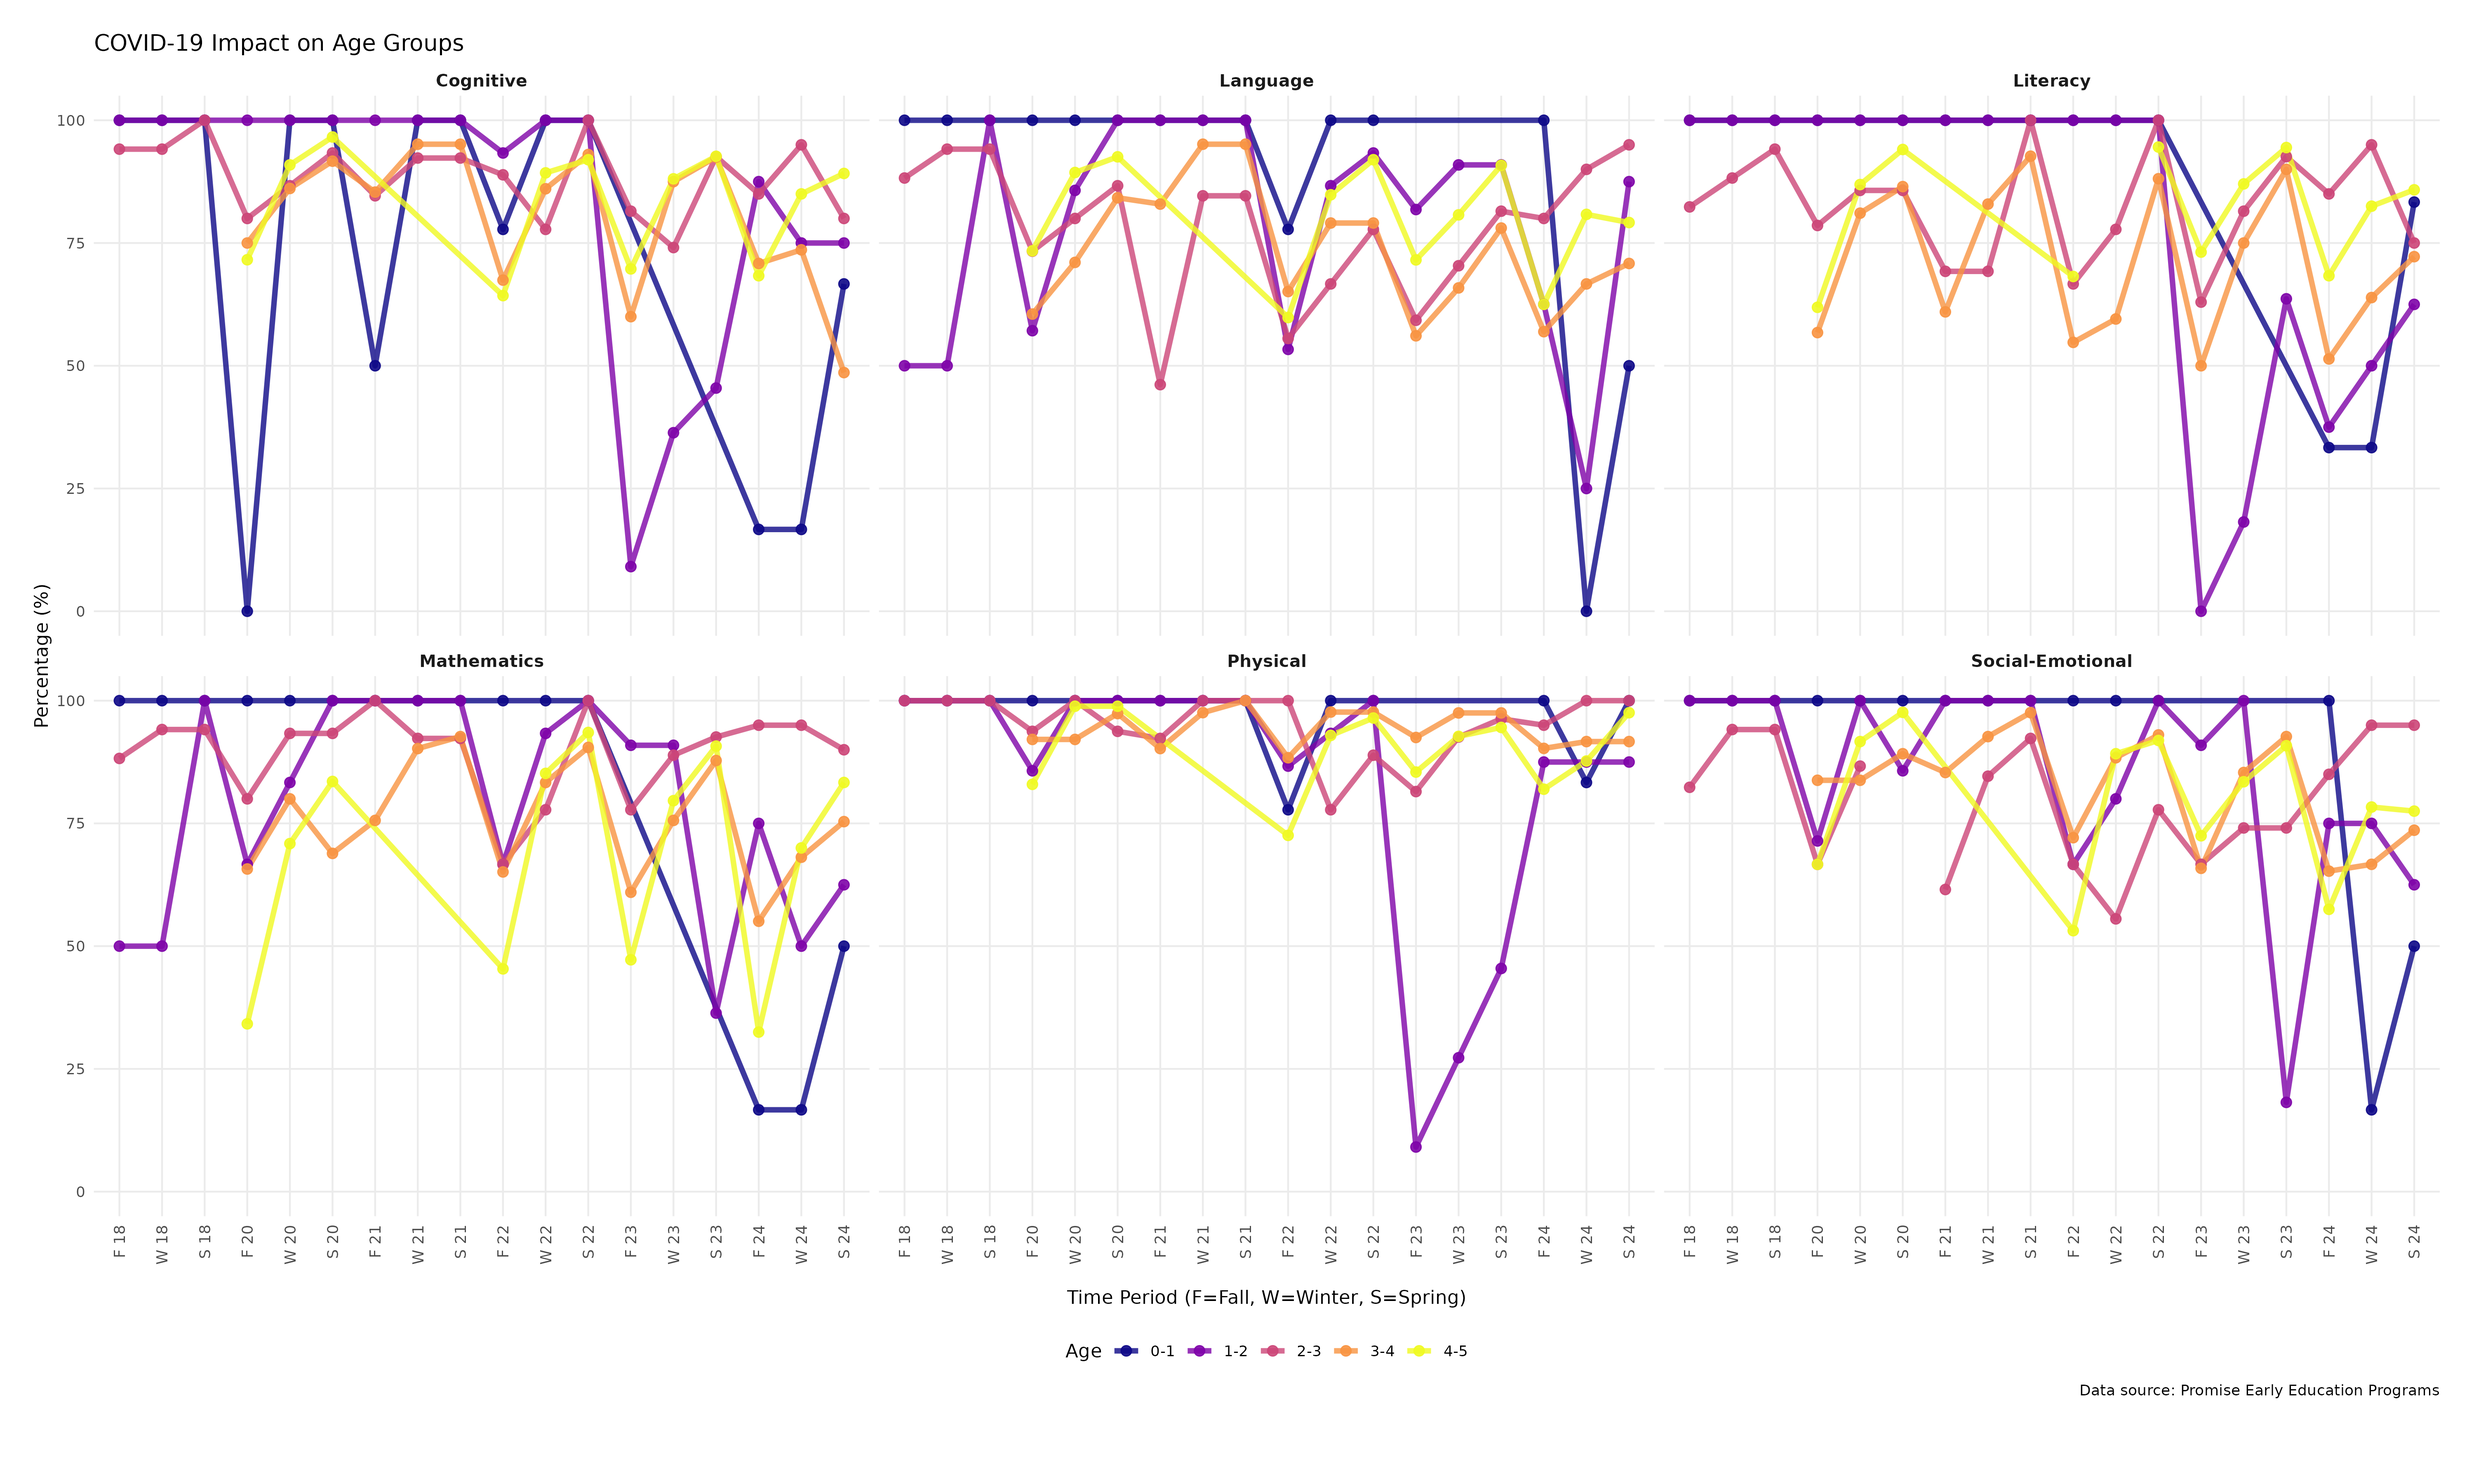
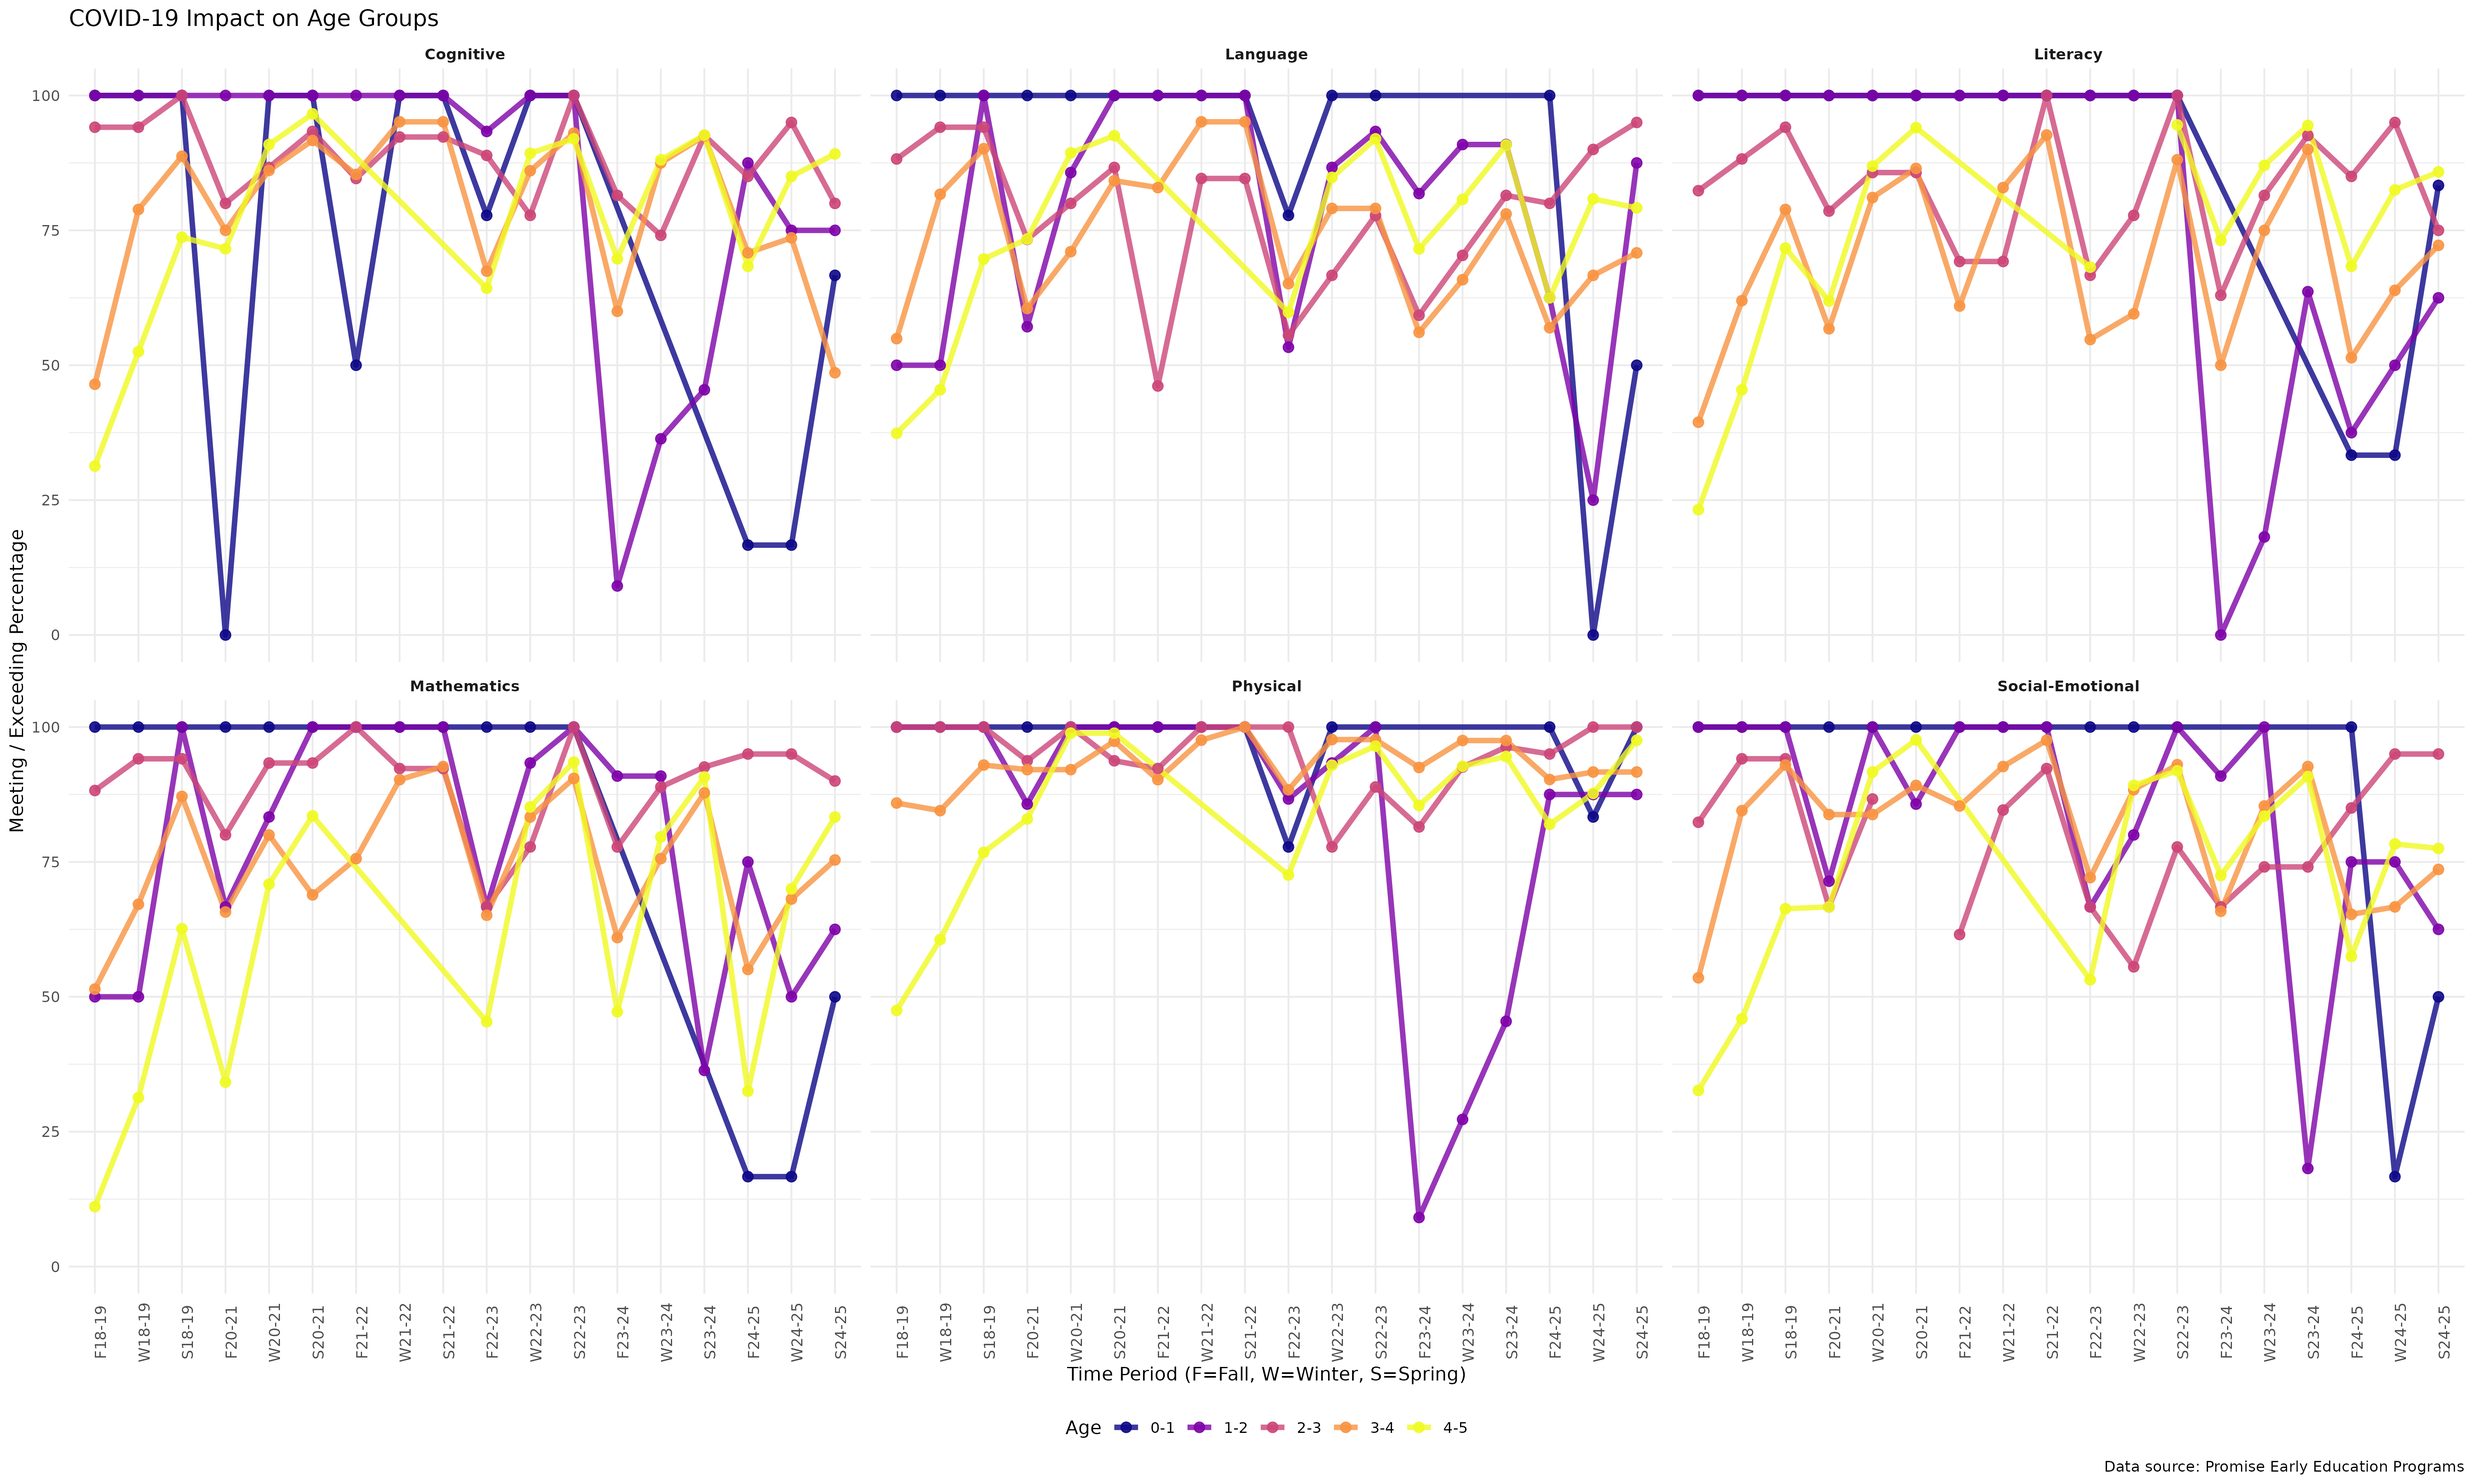
Second Plot

diff --git a/proposal/proposal.md b/proposal/proposal.md
@@ -206,113 +206,84 @@ the students from the beggining (Fall) to the end of the school year
 
 ##### Facet Line Graph
 
-``` r
-library(tidyverse)
-
-# Check which datasets exist
-datasets_needed <- c("X2018_2019", "X2020_2021", "X2021_2022", "X2022_2023", "X2023_2024", "X2024_2025")
-existing_data <- datasets_needed[sapply(datasets_needed, exists)]
-missing_data <- datasets_needed[!sapply(datasets_needed, exists)]
-
-print("Datasets found:")
-```
-
-    ## [1] "Datasets found:"
+## First read the data
 
 ``` r
-print(existing_data)
-```
-
-    ## character(0)
-
-``` r
-print("Datasets missing:")
-```
-
-    ## [1] "Datasets missing:"
-
-``` r
-print(missing_data)
-```
-
-    ## [1] "X2018_2019" "X2020_2021" "X2021_2022" "X2022_2023" "X2023_2024"
-    ## [6] "X2024_2025"
-
-``` r
-# If data is missing, show available objects
-if(length(missing_data) > 0) {
-  print("Available objects in environment:")
-  print(ls())
-}
-```
-
-    ## [1] "Available objects in environment:"
-    ## [1] "categorized_data_2018_2019" "datasets_needed"           
-    ## [3] "existing_data"              "missing_data"              
-    ## [5] "prof_2018_2019"
-
-``` r
-library(tidyverse)
-library(readxl)
+X2018_2019 <- read_excel("../data/ignore/2018-2019.xlsx")
+X2020_2021 <- read_excel("../data/ignore/2020-2021.xlsx")
+X2021_2022 <- read_excel("../data/ignore/2021-2022.xlsx")
+X2022_2023 <- read_excel("../data/ignore/2022-2023.xlsx")
+X2023_2024 <- read_excel("../data/ignore/2023-2024.xlsx")
+X2024_2025 <- read_excel("../data/ignore/2024-2025.xlsx")
 ```
 
 ``` r
-# Check if datasets exist, if not show error message
-required_data <- c("X2018_2019", "X2020_2021", "X2021_2022", "X2022_2023", "X2023_2024", "X2024_2025")
-
-# Only run if all data exists
-if(all(sapply(required_data, exists))) {
-  
-  # Clean function
-  fix_data <- function(d){
-    d |>
-      select(Category, Age, `Time Period`, `# Children`, `# Meeting / Exceeding`) |>
-      mutate(
-        `# Children` = as.numeric(`# Children`),
-        `# Meeting / Exceeding` = as.numeric(`# Meeting / Exceeding`)
-      )
-  }
-  
-  # Combine data
-  data <- bind_rows(
-    fix_data(X2018_2019), fix_data(X2020_2021), fix_data(X2021_2022),
-    fix_data(X2022_2023), fix_data(X2023_2024), fix_data(X2024_2025)
+# Fix data types BEFORE combining datasets
+data <- bind_rows( X2018_2019 |> select(Category, `# Children`, Age, `# Meeting / Exceeding`, `Time Period`) |> 
+mutate(`# Children` = suppressWarnings(as.numeric(`# Children`)), `# Meeting / Exceeding` = suppressWarnings(as.numeric(`# Meeting / Exceeding`)), year = "18-19"),
+X2020_2021 |> select(Category, `# Children`, Age, `# Meeting / Exceeding`, `Time Period`) |> 
+mutate(`# Children` = suppressWarnings(as.numeric(`# Children`)), `# Meeting / Exceeding` = suppressWarnings(as.numeric(`# Meeting / Exceeding`)), year = "20-21"), 
+X2021_2022 |> select(Category, `# Children`, Age, `# Meeting / Exceeding`, `Time Period`) |> 
+mutate(`# Children` = suppressWarnings(as.numeric(`# Children`)), `# Meeting / Exceeding` = suppressWarnings(as.numeric(`# Meeting / Exceeding`)), year = "21-22"),
+X2022_2023 |> select(Category, `# Children`, Age, `# Meeting / Exceeding`, `Time Period`) |> 
+mutate(`# Children` = suppressWarnings(as.numeric(`# Children`)), `# Meeting / Exceeding` = suppressWarnings(as.numeric(`# Meeting / Exceeding`)), year = "22-23"),
+X2023_2024 |> select(Category, `# Children`, Age, `# Meeting / Exceeding`, `Time Period`) |> 
+mutate(`# Children` = suppressWarnings(as.numeric(`# Children`)), `# Meeting / Exceeding` = suppressWarnings(as.numeric(`# Meeting / Exceeding`)), year = "23-24"),
+X2024_2025 |> select(Category, `# Children`, Age, `# Meeting / Exceeding`, `Time Period`) |> 
+mutate(`# Children` = suppressWarnings(as.numeric(`# Children`)), `# Meeting / Exceeding` = suppressWarnings(as.numeric(`# Meeting / Exceeding`)), year = "24-25")
+) |>
+  mutate(
+season = case_when(
+str_detect(`Time Period`, "Fall") ~ "F",
+str_detect(`Time Period`, "Winter") ~ "W",
+str_detect(`Time Period`, "Spring") ~ "S"
+    ),
+label = paste0(season, year),
+sort_num = as.numeric(str_sub(year, 1, 2)) * 10 + match(season, c("F","W","S"))
   ) |>
-    mutate(
-      season = str_extract(`Time Period`, "Fall|Winter|Spring"),
-      yr = as.integer(str_extract(`Time Period`, "20\\d{2}")),
-      start = case_when(
-        yr %in% c(2018, 2019) ~ 2018,
-        yr %in% c(2024, 2025) ~ 2024,
-        TRUE ~ yr
-      ),
-      label = paste(season, paste0(start, "-", start + 1)),
-      order = start*10 + match(season, c("Fall","Winter","Spring"))
-    ) |>
-    filter(!is.na(season)) |>
-    group_by(label, Category, Age, order) |>
-    summarise(
-      percentage = sum(`# Meeting / Exceeding`, na.rm = TRUE) / sum(`# Children`, na.rm = TRUE) * 100,
-      .groups = "drop"
-    )
+drop_na() |>
+group_by(label, Category, Age, sort_num) |>
+summarise(percent = sum(`# Meeting / Exceeding`) / sum(`# Children`) * 100, .groups = "drop")
+
+# Make thee plot and save it to covid_plot variable
+covid_plot <- ggplot(data, aes(reorder(label, sort_num), percent, color = Age, group = Age)) +
+geom_line(size = 1.5, alpha = 0.8) +
+geom_point(size = 2.5, alpha = 0.9) +
+facet_wrap(~Category) +
+scale_color_viridis_d(option = "plasma") +
+ylim(0, 100) +
+labs(title = "COVID-19 Impact on Age Groups", 
+x = "Time Period (F=Fall, W=Winter, S=Spring)", 
+y = "Meeting / Exceeding Percentage", 
+caption = "Data source: Promise Early Education Programs" ) +
   
-  # Make plot
-  ggplot(data, aes(reorder(label, order), percentage, color = Age, group = Age)) +
-    geom_line(linewidth = 1, alpha = 0.6) +
-    geom_point(size = 2, alpha = 0.75) +
-    facet_wrap(~ Category, nrow = 2) +
-    scale_color_viridis_d() +
-    labs(title = "COVID-19 Impact on Age Groups", x = "Time Period", y = "Meeting / Exceeding Percentage(%)") +
-    theme_minimal() +
-    theme(axis.text.x = element_text(angle = 45, hjust = 1), strip.text = element_text(face = "bold"))
-  
-} else {
-  print("ERROR: Missing datasets. You need to load your Excel files first!")
-  print("Add a chunk like this BEFORE this graph:")
-  print("X2018_2019 <- read_excel('path/to/your/file.xlsx')")
-}
+theme_minimal() +
+theme(
+axis.text.x = element_text(angle = 90, size = 9),
+strip.text = element_text(face = "bold"),
+legend.position = "bottom"
+  )
 ```
 
-    ## [1] "ERROR: Missing datasets. You need to load your Excel files first!"
-    ## [1] "Add a chunk like this BEFORE this graph:"
-    ## [1] "X2018_2019 <- read_excel('path/to/your/file.xlsx')"
+    ## Warning: Using `size` aesthetic for lines was deprecated in ggplot2 3.4.0.
+    ## ℹ Please use `linewidth` instead.
+    ## This warning is displayed once every 8 hours.
+    ## Call `lifecycle::last_lifecycle_warnings()` to see where this warning was
+    ## generated.
+
+``` r
+#Save
+ggsave("covid_clear_plot.png", covid_plot, width = 20, height = 12, dpi = 300)
+```
+
+    ## Warning: Removed 2 rows containing missing values or values outside the scale range
+    ## (`geom_point()`).
+
+``` r
+covid_plot
+```
+
+    ## Warning: Removed 2 rows containing missing values or values outside the scale range
+    ## (`geom_point()`).
+
+<img src="proposal_files/figure-gfm/unnamed-chunk-1-1.png" alt="This facet line chart shows how the percentage of children meeting expected learning goals changed from the 2018–2019 to 2024–2025 school years. Each colored line represents a different age group (0–1, 1–2, 2–3, 3–4, and 4–5 years old). The chart is divided into six panels, one for each learning area: Cognitive, Language, Literacy, Mathematics, Physical, and Social-Emotional development. The colors (from the viridis palette) distinguish the age groups. The purpose of this chart is to highlight how the COVID-19 pandemic affected different age groups learning progress and to show how children’s development has changed and recovered across years and learning categories."  />
